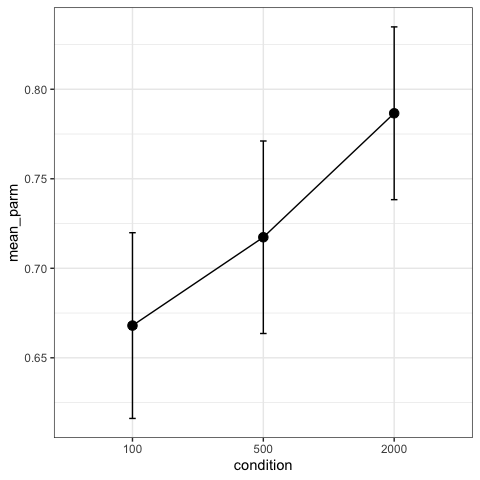
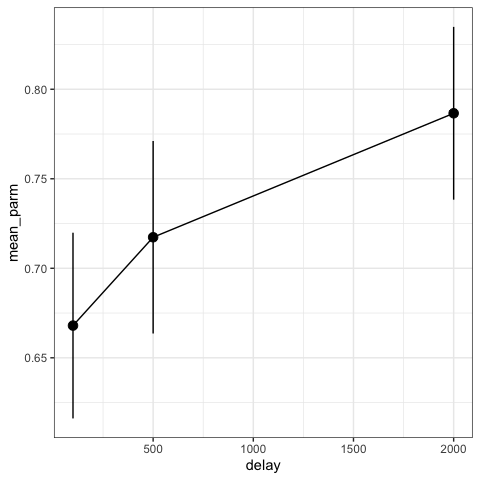
replaced quoted NULLs with unquoted

diff --git a/README.md b/README.md
@@ -195,10 +195,10 @@ The function—*plot\_error*—takes the following arguments:
     that codes for the target value. Defaults to “target”.
   - **set\_size\_var:** If set size was manipulated, a character
     variable indicating the column name that codes for the set size.
-    Defaults to “NULL”.
+    Defaults to NULL.
   - **conditon\_var:** If an additional condition was manipulated, a
     character indicating the column name that codes for this condition.
-    Defaults to “NULL”.
+    Defaults to NULL.
   - **return\_data:** A logical variable (“TRUE” or “FALSE”) indicating
     whether the plot data should be returned by the function. By
     default, the function will just return the plot itself (i.e.,
@@ -278,7 +278,7 @@ data(bays2009_full)
 plot_error(data = bays2009_full,
            unit = "radians",
            set_size_var = "set_size", 
-           condition_var = "NULL")
+           condition_var = NULL)
 ```
 
 ![](man/figures/README-unnamed-chunk-6-1.png)<!-- -->
@@ -385,8 +385,8 @@ Instead, just ask for the plot data.
 ``` r
 plot_data <- plot_precision(data = bays2009_full, 
                             unit = "radians",
-                            condition_var = "NULL",
-                            set_size_var = "NULL", 
+                            condition_var = NULL,
+                            set_size_var = NULL, 
                             return_data = TRUE)
 plot_data$data
 #> # A tibble: 1 x 4
@@ -403,7 +403,7 @@ condition.
 plot_precision(data = bays2009_full, 
                unit = "radians",
                condition_var = "delay",
-               set_size_var = "NULL")
+               set_size_var = NULL)
 ```
 
 ![](man/figures/README-unnamed-chunk-13-1.png)<!-- -->
@@ -481,7 +481,7 @@ fit <- fit_mixtur(data = data,
                   target_var = "target",
                   non_target_var = "non_target",
                   set_size_var = "set_size",
-                  condition_var = "NULL")
+                  condition_var = NULL)
 #> [1] "Model fit running. Please wait..."
 #> [1] "Model fit finished."
 
@@ -513,7 +513,7 @@ fit <- fit_mixtur(data = data,
                   target_var = "target",
                   non_target_var = "non_target",
                   set_size_var = "set_size",
-                  condition_var = "NULL")
+                  condition_var = NULL)
 #> [1] "Model fit running. Please wait..."
 #> [1] "Model fit finished."
 
@@ -627,7 +627,7 @@ fit <- fit_mixtur(data = sample_data,
                   response_var = "response",
                   target_var = "target",
                   non_target_var = "non_target",
-                  set_size_var = "NULL",
+                  set_size_var = NULL,
                   condition_var = "delay")
 #> [1] "Model fit running. Please wait..."
 #> [1] "Model fit finished."
@@ -637,11 +637,11 @@ pd <- position_dodge(0.8)
 
 # plot the fit
 fit %>% 
-  group_by(condition) %>% 
+  group_by(delay) %>% 
   summarise(mean_parm = mean(p_t), 
             se_parm = sd(p_t) / sqrt(length(p_t))) %>% 
-  mutate(condition = as.factor(condition)) %>% 
-  ggplot(aes(x = condition, 
+  mutate(condition = as.factor(delay)) %>% 
+  ggplot(aes(x = delay, 
              y = mean_parm)) + 
   geom_point(size = 3) + 
   geom_line(aes(group = 1)) +
@@ -671,7 +671,7 @@ model_data <- fit_mixtur(data,
                          target_var = "target",
                          non_target_var = "non_target",
                          set_size_var = "set_size",
-                         condition_var = "NULL")
+                         condition_var = NULL)
 #> [1] "Model fit running. Please wait..."
 #> [1] "Model fit finished."
 
@@ -682,7 +682,7 @@ plot_model_fit(human_data = data,
                response_var = "response",
                target_var = "target",
                set_size_var = "set_size",
-               condition_var = "NULL")
+               condition_var = NULL)
 ```
 
 ![](man/figures/README-unnamed-chunk-21-1.png)<!-- -->
@@ -723,7 +723,7 @@ plot_model_fit(human_data = data,
 simulated_data <- simulate_mixtur(n_trials = 5000, 
                                   K = 15, 
                                   p_t = 0.75, 
-                                  p_n = "NULL", 
+                                  p_n = NULL, 
                                   p_u = 0.25, 
                                   set_size = 4)
 #> [1] "Simulating data. Please wait..."
@@ -731,12 +731,12 @@ simulated_data <- simulate_mixtur(n_trials = 5000,
 
 head(simulated_data)
 #>   id target response non_target_1 non_target_2 non_target_3
-#> 1  1 -1.710   -1.423        0.506        1.309        2.915
-#> 2  1 -2.391   -2.810       -1.100        0.942        0.192
-#> 3  1 -0.681   -0.722       -2.705       -1.780        2.583
-#> 4  1 -0.995    0.086       -2.007        1.885        2.793
-#> 5  1  1.187    1.904        0.454       -1.431        2.217
-#> 6  1 -1.431    0.742       -2.653       -0.314        2.723
+#> 1  1 -1.012    0.582       -2.548        1.414        2.793
+#> 2  1  2.147    2.119       -2.251        0.925       -0.908
+#> 3  1 -0.262   -0.100       -2.094        2.182        2.897
+#> 4  1 -1.833   -1.701        0.454       -0.454       -2.897
+#> 5  1  1.152    1.175        2.653       -2.007        0.192
+#> 6  1 -0.733   -0.719       -2.374        1.885        0.698
 
 fit <- fit_mixtur(data = simulated_data,
                   components = 2,
@@ -745,14 +745,14 @@ fit <- fit_mixtur(data = simulated_data,
                   response_var = "response",
                   target_var = "target",
                   non_target_var = "non_target",
-                  set_size_var = "NULL",
-                  condition_var = "NULL")
+                  set_size_var = NULL,
+                  condition_var = NULL)
 #> [1] "Model fit running. Please wait..."
 #> [1] "Model fit finished."
 
 head(fit)
 #>   id      K   p_t p_n   p_u
-#> 1  1 14.988 0.739   0 0.261
+#> 1  1 15.194 0.748   0 0.252
 ```
 
 ### Three-component model
@@ -769,12 +769,12 @@ simulated_data <- simulate_mixtur(n_trials = 5000,
 
 head(simulated_data)
 #>   id target response non_target_1 non_target_2 non_target_3
-#> 1  1  2.827    2.996       -0.925       -0.157        0.925
-#> 2  1 -1.676   -1.872        1.274        0.541        2.775
-#> 3  1 -1.972   -2.087       -1.134        3.037        0.942
-#> 4  1  1.100    0.655        2.653       -2.374       -0.785
-#> 5  1  1.169    0.998       -0.105        2.077       -3.142
-#> 6  1 -0.977   -0.710        1.361       -2.025        2.723
+#> 1  1  0.663    0.929        1.937       -1.065        2.985
+#> 2  1 -3.142   -3.267       -0.140        0.960        1.868
+#> 3  1  1.553    1.520       -2.793       -1.676       -0.977
+#> 4  1 -2.478    1.130        0.454        2.688        1.606
+#> 5  1 -0.209   -0.073       -2.304        3.072        1.187
+#> 6  1  1.204    1.486       -1.222        2.862       -2.601
 
 fit <- fit_mixtur(data = simulated_data,
                   components = 3,
@@ -783,14 +783,14 @@ fit <- fit_mixtur(data = simulated_data,
                   response_var = "response",
                   target_var = "target",
                   non_target_var = "non_target",
-                  set_size_var = "NULL",
-                  condition_var = "NULL")
+                  set_size_var = NULL,
+                  condition_var = NULL)
 #> [1] "Model fit running. Please wait..."
 #> [1] "Model fit finished."
 
 head(fit)
-#>   id      K   p_t   p_n   p_u
-#> 1  1 14.635 0.754 0.143 0.103
+#>   id     K   p_t   p_n   p_u
+#> 1  1 15.32 0.752 0.153 0.095
 ```
 
 ## Designing
